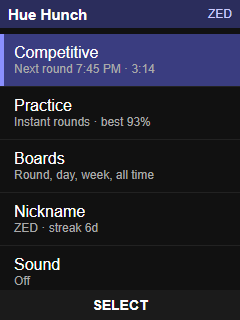
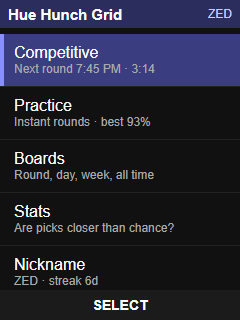
Add Wheel store art and document both apps

Changed region(s): [[0.0583, 0.625, 0.7292, 0.75], [0.0583, 0.7812, 0.4083, 0.9062], [0.3792, 0.0312, 0.525, 0.0625]]

diff --git a/store/wheel/shots.js b/store/wheel/shots.js
@@ -1,0 +1,84 @@
+// Captures the banner and 5 KaiStore screenshots (240x320) for Hue Hunch Wheel with the backend mocked.
+// Needs the built site served on port 5502 (node tools/build-site.js && npx http-server@14.1.1 _site -p 5502)
+// and the repo on port 5500 for the banner, then run through Playwright's run-code with page as the argument.
+// A fake clock makes the two presses land on the same blue every time.
+async (page) => {
+  const OUT = 'C:/Users/Gabriel.Pierce/source/repos/vibe-code-stuff/qtrain/store/wheel/';
+  const APP = 'http://127.0.0.1:5502/wheel/index.html';
+  const LAP = 2400;
+  const d = new Date(); d.setHours(19, 41, 35, 0);
+  const NOW = d.getTime();
+  const OPEN = Math.floor(NOW / 300000) * 300000 + 300000; // the 7:45 round
+  const ME = 'a1b2c3d4-0000-4000-8000-000000000001';
+  const others = [['PIXEL', '#2E8CE6'], ['NOVA', '#E04A3A'], ['MOTH', '#F2D04A'], ['KIRA', '#3AA860'], ['BEAM', '#8A3AC8'],
+    ['JUNO', '#E8E8F0'], ['ORBIT', '#402010'], ['RUNE', '#20C0C0'], ['FLUX', '#1E5FB0']]
+    .map((r, i) => ({ nickname: r[0], tag: 'ab' + i, hex: r[1], submittedAt: i, mine: false }));
+  const series = Array.from({ length: 40 }, (_, i) => {
+    const half = 30 / Math.sqrt(i + 1);
+    return { t: NOW - (40 - i) * 3600000, q: +(50 + 6 * Math.sin(i / 3) / Math.sqrt(i + 1)).toFixed(1),
+      a: i < 15 ? null : +(50 - 4 * Math.cos(i / 2) / Math.sqrt(i + 1)).toFixed(1), lo: +(50 - half).toFixed(1), hi: +(50 + half).toFixed(1) };
+  });
+  let myHex = null;
+
+  await page.unrouteAll({ behavior: 'ignoreErrors' });
+  await page.setViewportSize({ width: 240, height: 130 });
+  await page.goto('http://127.0.0.1:5500/store/wheel/banner.html');
+  await page.waitForTimeout(300);
+  await page.screenshot({ path: OUT + 'img_hue_hunch_wheel.jpg', type: 'jpeg', quality: 92 });
+
+  await page.setViewportSize({ width: 240, height: 320 });
+  await page.route('**/static.kaiads.com/**', r => r.abort());
+  // Desktop Chromium draws scrollbars that a KaiOS phone does not. CSS animations run on real time, not the
+  // fake clock, so they are switched off to keep screens from being caught mid-fade.
+  await page.addInitScript(() => addEventListener('DOMContentLoaded', () => {
+    const s = document.createElement('style'); s.textContent = '::-webkit-scrollbar{display:none} *{animation:none!important}'; document.head.appendChild(s);
+  }));
+  await page.route('http://127.0.0.1:8787/**', r => {
+    const u = new URL(r.request().url());
+    let body = {};
+    if (u.pathname === '/now') body = { now: NOW };
+    else if (u.pathname === '/pick') { myHex = JSON.parse(r.request().postData()).hex; body = { ok: true }; }
+    else if (/\/picks$/.test(u.pathname)) body = { roundId: OPEN, picks: others.concat([{ nickname: 'ZED', tag: 'a1b2', hex: myHex || '#2A6FC8', submittedAt: 99, mine: true }]) };
+    else if (u.pathname.startsWith('/round/')) body = { roundId: OPEN, status: 'open', players: 10, top: [] };
+    else if (u.pathname.startsWith('/board/')) body = { top: [] };
+    else if (u.pathname === '/stats/all') body = { rounds: 412, picks: 2210, quantum: 50.6, algorithm: 49.1, algorithmRounds: 300, algorithmSince: series[15].t, band: [46.1, 53.9], series };
+    r.fulfill({ status: 200, contentType: 'application/json', headers: { 'Access-Control-Allow-Origin': '*' }, body: JSON.stringify(body) });
+  });
+  const key = k => page.evaluate(k => document.dispatchEvent(new KeyboardEvent('keydown', { key: k, bubbles: true })), k);
+  const seed = pendings => page.evaluate(([me, p]) => localStorage.setItem('huehunch-wheel.state', JSON.stringify({
+    id: me, nickname: 'ZED', introSeen: 'dev', sound: false, streak: 6, lastDay: null,
+    best: 91, history: [91, 84, 77], adCount: 0, pendings: p
+  })), [ME, pendings]);
+  const shot = async name => { await page.clock.runFor(450); await page.screenshot({ path: OUT + 'screenshots/' + name + '.png' }); };
+
+  await page.clock.install({ time: NOW });
+  // 1. Home
+  await page.goto(APP); await seed([]); await page.goto(APP);
+  await page.clock.runFor(800);
+  await shot('1-home');
+
+  // 2. Hue spin, line partway round
+  await key('Enter');
+  await page.clock.runFor(LAP * 0.27);
+  await shot('2-hue-spin');
+
+  // 3. Stopped on a blue hue, then a slightly deep shade: Redo or Submit
+  await page.clock.runFor(LAP * 0.31 - 450);
+  await key('Enter');
+  await page.clock.runFor(LAP * 0.31);
+  await key('Enter');
+  await shot('3-review');
+
+  // 4. Locked in: everyone's picks so far
+  await key('SoftRight');
+  await page.clock.runFor(1500);
+  await shot('4-live');
+
+  // 5. Stats, all rounds
+  await key('Backspace'); await page.clock.runFor(400);
+  for (let i = 0; i < 3; i++) await key('ArrowDown');
+  await key('Enter');
+  await page.clock.runFor(900);
+  await shot('5-stats');
+  return 'done ' + myHex;
+}

diff --git a/store/wheel/banner.html b/store/wheel/banner.html
@@ -1,0 +1,42 @@
+<!DOCTYPE html>
+<!-- Hue Hunch Wheel KaiStore banner source. Screenshot at 240x130 as JPG: no text, calm on the left
+     where the store draws the icon, name and subtitle. Same backdrop as the Grid banner. -->
+<html><head><meta charset="utf-8"><style>
+html, body { margin: 0; width: 240px; height: 130px; overflow: hidden; }
+body { background: radial-gradient(circle at 78% 50%, #3b3e86 0%, #2b2d5c 45%, #17183a 100%); position: relative; }
+.ring { position: absolute; left: 186px; top: 65px; border-radius: 50%; border: 1.5px solid rgba(255,255,255,.10); transform: translate(-50%, -50%); }
+canvas { position: absolute; left: 146px; top: 25px; }
+.dot { position: absolute; width: 8px; height: 8px; border-radius: 50%; opacity: .45; }
+.fade { position: absolute; inset: 0; background: linear-gradient(90deg, rgba(23,24,58,.55) 0%, rgba(23,24,58,0) 55%); }
+</style></head><body>
+<div class="ring" style="width:150px;height:150px;border-color:rgba(255,255,255,.07)"></div>
+<div class="ring" style="width:210px;height:210px;border-color:rgba(255,255,255,.045)"></div>
+<div class="ring" style="width:280px;height:280px;border-color:rgba(255,255,255,.03)"></div>
+<canvas id="w" width="80" height="80"></canvas>
+<div class="dot" style="left:120px;top:18px;background:#f5a524"></div>
+<div class="dot" style="left:132px;top:100px;background:#33b5ff"></div>
+<div class="dot" style="left:228px;top:10px;background:#3fcf5a"></div>
+<div class="dot" style="left:104px;top:72px;background:#e8449a;opacity:.3"></div>
+<div class="fade"></div>
+<script src="../../app/js/wheel.js"></script>
+<script>
+// The hue ring with the line mid-sweep, as on the app icon.
+var c = document.getElementById('w').getContext('2d'), C = 40, N = 180;
+function ang(f) { return f * 2 * Math.PI - Math.PI / 2; }
+for (var i = 0; i < N; i++) {
+  c.beginPath();
+  c.arc(C, C, 38, ang(i / N), ang((i + 1.6) / N));
+  c.arc(C, C, 24, ang((i + 1.6) / N), ang(i / N), true);
+  c.closePath();
+  c.fillStyle = 'rgb(' + QTWheel.hueRgb((i + 0.5) / N).join(',') + ')';
+  c.fill();
+}
+var a = ang(0.38);
+c.lineCap = 'round';
+[['rgba(0,0,0,.6)', 5], ['#fff', 2.5]].forEach(function (s) {
+  c.strokeStyle = s[0]; c.lineWidth = s[1];
+  c.beginPath(); c.moveTo(C, C); c.lineTo(C + Math.cos(a) * 39, C + Math.sin(a) * 39); c.stroke();
+});
+c.beginPath(); c.arc(C, C, 3.5, 0, 2 * Math.PI); c.fillStyle = '#fff'; c.fill();
+</script>
+</body></html>

diff --git a/README.md b/README.md
@@ -1,9 +1,16 @@
 # Hue Hunch
 
-A KaiOS game: guess the color the NIST Randomness Beacon draws every 5 minutes. Closest pick wins the Round, Day, Week and All-time boards. Practice rounds draw instantly from lizaonair.com/qrng.
+Two KaiOS games on one backend: guess the color the NIST Randomness Beacon draws every 5 minutes. Closest pick wins the Round, Day, Week and All-time boards, shared by both apps. Practice rounds draw instantly from lizaonair.com/qrng.
 
-- `app/` static KaiOS web app (GitHub Pages). Plain JS that runs on KaiOS 2.5 (Gecko 48) and 3.x.
-- `worker/` Cloudflare Worker + D1: stores picks, resolves rounds every minute from the beacon, serves boards, proxies practice draws.
+- **Hue Hunch Grid** (`app/`): pick with 1-9 on a 3x3 grid, then refine.
+- **Hue Hunch Wheel** (`wheel/`): a line sweeps a color wheel; stop it on the hue, then on the shade, then Redo or Submit. After you lock in, everyone's picks appear on the wheel live.
+- Both apps have **Stats**: picks scored against chance (50% = guessing), against the beacon, and against an ordinary PRNG color drawn at the same moment as a control, for one round and all rounds.
+
+Layout:
+
+- `app/` the Grid app and the shared code. `app/js/ui.js` is the screen framework (`QTUI`); each app's `js/game.js` names it, `screen-grid.js` / `screen-wheel.js` add its pick screens, `screen-stats.js` the Stats screens. Plain ES5 for KaiOS 2.5 (Gecko 48) and 3.x.
+- `wheel/` the Wheel app's own page, manifests, icons, `js/game.js` and `css/wheel.css`. `tools/build-site.js` copies the shared scripts in.
+- `worker/` Cloudflare Worker + D1: stores picks, resolves rounds every minute from the beacon, draws the PRNG control, scores stats (`chance.js`, `scoring.js`), serves boards, stats and live picks, proxies practice draws.
 - `docs/superpowers/` design and build plan.
 
 ## Develop
@@ -16,13 +23,14 @@ npx wrangler dev --test-scheduled          # API on http://127.0.0.1:8787
 ```
 
 ```bash
-npx http-server@14.1.1 app -p 5500 -c-1    # app on http://localhost:5500 (talks to the local Worker)
+node tools/build-site.js                   # assemble _site/: Grid at /, Wheel at /wheel/
+npx http-server@14.1.1 _site -p 5500 -c-1  # http://localhost:5500 and /wheel/ (talk to the local Worker)
 bash test/api.smoke.sh                     # API smoke test (local by default, or pass a URL)
 ```
 
 Resolve closed rounds locally: `curl "http://127.0.0.1:8787/__scheduled?cron=*+*+*+*+*"`.
 
-Desktop keys: 1-9 pick, Backspace undo/back, Q = left softkey, E = right softkey, Enter = center, arrows navigate.
+Desktop keys: 1-9 pick (Grid), Enter or 5 stops the line (Wheel), Backspace undo/back, Q = left softkey, E = right softkey, Enter = center, arrows navigate. Left/Right on a Wheel result flips to the wheel of picks; the center key on a result opens Stats.
 
 ## Deploy
 
@@ -34,12 +42,18 @@ npx wrangler deploy
 bash ../test/api.smoke.sh https://qtrain.<subdomain>.workers.dev
 ```
 
-Put the Worker URL in `app/js/config.js` (`apiBase`). Pushing `app/` to `main` deploys GitHub Pages through `.github/workflows/pages.yml` (repo Settings > Pages > Source: GitHub Actions). The manifests assume the site lives at `https://<user>.github.io/qtrain/`; change the `/qtrain/` paths if the repo name or domain differs.
+Put the Worker URL in `app/js/config.js` (`apiBase`). Pushing `app/` or `wheel/` to `main` runs the tests, builds `_site/` with `tools/build-site.js` and deploys GitHub Pages through `.github/workflows/pages.yml` (repo Settings > Pages > Source: GitHub Actions). The manifests assume the site lives at `https://<user>.github.io/qtrain/` (Wheel at `/qtrain/wheel/`); change the paths if the repo name or domain differs.
 
 ## KaiStore
 
-- Hosted app: submit the manifest URL (`.../qtrain/manifest.webapp` for KaiOS 2.5, `.../qtrain/manifest.webmanifest` for 3.x). Content updates go live when Pages updates.
-- Ads: KaiAds publisher `0b1f52de-82bb-4c58-b2e4-1b125c046417`, slot `qtrain-us` (set in `app/js/config.js`). Ads show on app open and after every 3rd result.
-- Listing limits: subtitle 40 chars, description 220 chars, icons 56 and 112 px (`node tools/make-icons.js` regenerates them).
-- Describe it as a game of luck and intuition.
-- Store art lives in `store/`: the 240x130 marketing banner (`img_hue_hunch.jpg`, made from `banner.html`) and five 240x320 screenshots (`screenshots/`, made by `shots.js` with the backend mocked). Theme color `#2B2D5C`.
+- Hosted apps: submit the manifest URL (`manifest.webapp` for KaiOS 2.5, `manifest.webmanifest` for 3.x).
+  - Grid: `https://gabebrpierce.github.io/qtrain/manifest.webapp` / `.../qtrain/manifest.webmanifest`
+  - Wheel: `https://gabebrpierce.github.io/qtrain/wheel/manifest.webapp` / `.../qtrain/wheel/manifest.webmanifest`
+  - Both apps share one origin. Install both on a real phone before relying on that; the Wheel folder is self-contained and can move to its own origin if the store objects.
+- Content updates go live when Pages updates.
+- Ads: KaiAds publisher `0b1f52de-82bb-4c58-b2e4-1b125c046417`, slot `qtrain-us` (set in `app/js/config.js`), used by both apps until the Wheel gets its own slot. Ads show on app open and after every 3rd result.
+- Listing limits: subtitle 40 chars, description 220 chars, icons 56 and 112 px (`node tools/make-icons.js` regenerates both apps' icons).
+- Describe them as games of luck and intuition.
+- Store art, theme color `#2B2D5C` for both:
+  - Grid in `store/`: banner `img_hue_hunch_grid.jpg` (from `banner.html`), five screenshots in `screenshots/` (from `shots.js`).
+  - Wheel in `store/wheel/`: banner `img_hue_hunch_wheel.jpg` (from `banner.html`), five screenshots in `screenshots/`. `shots.js` makes both, with the backend mocked and a fake clock so the stops land on the same blue each run.
